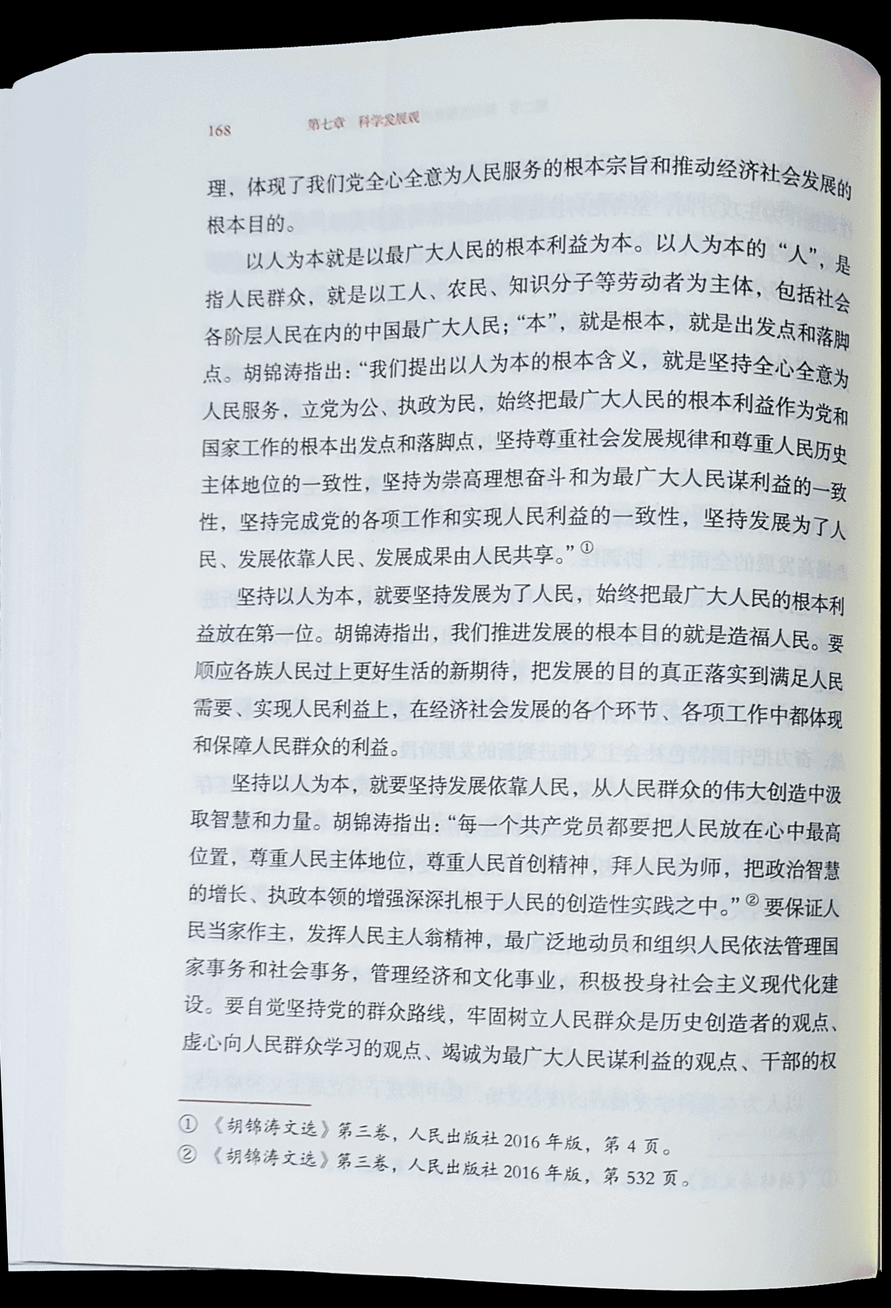
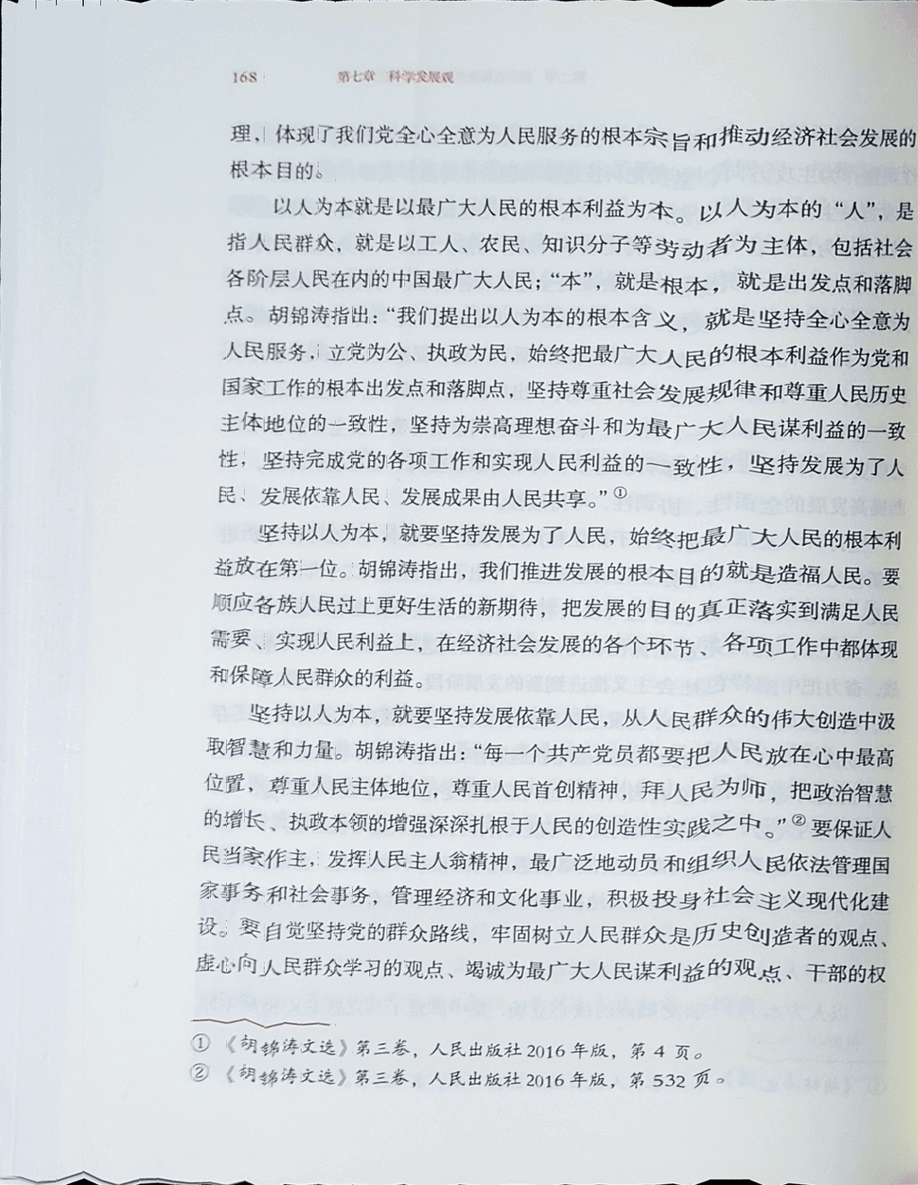
在pic_pre_process.py中添加图片垂直方向自动校正的功能

Changed region(s): [[0.0, 0.0, 1.0, 1.0]]

diff --git a/text_classificate/pic_pre_process.py b/text_classificate/pic_pre_process.py
@@ -415,6 +415,250 @@ def horizontal_warp_image(img, src_points):
     
     return warped
 
+
+# 书页在垂直方向上展开
+def vertical_warp_image(img, num_cells=50, k=1.3):
+    # ========== 图像预处理 ==========
+    # 预处理强化文字对比度
+    gray = cv2.cvtColor(img, cv2.COLOR_BGR2GRAY)
+    blur = cv2.bilateralFilter(gray, 15, 75, 75)  # 保边滤波
+    clahe = cv2.createCLAHE(clipLimit=4.0, tileGridSize=(16,16))
+    enhanced = clahe.apply(blur)
+
+    # 动态参数计算
+    h, w = img.shape[:2]
+    block_size = max(31, int(min(h,w)/15)*2+1)  # 确保足够大的窗口
+    c_value = max(7, int(min(h,w)/100))
+    
+    # 二值化强化边缘
+    thresh = cv2.adaptiveThreshold(enhanced, 255, 
+                                  cv2.ADAPTIVE_THRESH_GAUSSIAN_C,
+                                  cv2.THRESH_BINARY, block_size, c_value)
+
+    # 形态学重建（针对密集文字优化）
+    kernel = cv2.getStructuringElement(cv2.MORPH_ELLIPSE, (7,7))
+    closed = cv2.morphologyEx(thresh, cv2.MORPH_CLOSE, kernel, iterations=3)
+    opened = cv2.morphologyEx(closed, cv2.MORPH_OPEN, kernel, iterations=2)
+
+    # 多层轮廓分析
+    contours, hierarchy = cv2.findContours(opened, cv2.RETR_TREE, cv2.CHAIN_APPROX_SIMPLE)
+
+    # 筛选有效轮廓
+    valid_contours = []
+    for i, cnt in enumerate(contours):
+        # 层级校验（仅最外层父轮廓）
+        if hierarchy[0][i][3] != -1:
+            continue
+        
+        # 几何特征校验
+        area = cv2.contourArea(cnt)
+        perimeter = cv2.arcLength(cnt, True)
+        if area < (h*w*0.5) or perimeter < (h+w)*1.5:
+            continue
+            
+        # 矩形度验证
+        rect = cv2.minAreaRect(cnt)
+        box = cv2.boxPoints(rect)
+        box_area = cv2.contourArea(box)
+        if abs(1 - area/box_area) > 0.3:
+            continue
+            
+        valid_contours.append(cnt)
+
+    # # ==================================================== 可视化调试 ====================================================
+    # debug_img = img.copy()
+    # cv2.drawContours(debug_img, valid_contours, -1, (0, 255, 0), 4)
+    # show_image(debug_img)
+
+    # ========== 处理四边界曲线 ==========
+    def extract_boundary_points(contours, img_height, threshold=0.3):
+        """提取上下边界点"""
+        upper_points = []
+        lower_points = []
+        for cnt in contours:
+            for p in cnt[:,0]:
+                if p[1] < img_height * threshold:
+                    upper_points.append(p)
+                elif p[1] > img_height * (1 - threshold):
+                    lower_points.append(p)
+        return upper_points, lower_points
+
+    def create_spline_curve(points, img_width, img_height):
+        """创建覆盖整个宽度的三次样条曲线（带严格递增校验）"""
+        if not points:
+            return lambda x: np.zeros_like(x)
+        
+        # 按x坐标排序并去重
+        points = sorted(points, key=lambda p: p[0])
+        unique_points = []
+        seen_x = set()
+        for p in reversed(points):  # 保留每个x最后出现的点
+            if p[0] not in seen_x:
+                seen_x.add(p[0])
+                unique_points.append(p)
+        unique_points = sorted(unique_points, key=lambda p: p[0])
+
+        # 提取坐标
+        x = np.array([p[0] for p in unique_points])
+        y = np.array([p[1] for p in unique_points])
+        
+        # 智能添加边界约束
+        if len(x) > 0:
+            if x[0] > 0:
+                x = np.concatenate([[0], x])
+                y = np.concatenate([[y[0]], y])
+            if x[-1] < img_width - 1:
+                x = np.concatenate([x, [img_width - 1]])
+                y = np.concatenate([y, [y[-1]]])
+        
+        # 最终校验
+        if len(x) < 2:
+            return lambda x: np.zeros_like(x)
+        
+        # 确保严格递增
+        assert np.all(np.diff(x) > 0), "x坐标必须严格递增"
+        
+        cubic_spline = CubicSpline(x, y)
+        return lambda x: np.clip(cubic_spline(x), 0, img_height)
+
+    # 提取上下边界点并创建曲线
+    h, w = img.shape[:2]
+    upper_points, lower_points = extract_boundary_points(valid_contours, h)
+
+    # # ==================================================== 可视化调试 ====================================================
+    # debug_img = img.copy()
+    # for p in upper_points:
+    #     cv2.circle(debug_img, tuple(p), 5, (0,0,255), -1)
+    # for p in lower_points:
+    #     cv2.circle(debug_img, tuple(p), 5, (255,0,0), -1)
+    # show_image(debug_img)
+
+    upper_curve = create_spline_curve(upper_points, w, h)
+    lower_curve = create_spline_curve(lower_points, w, h)
+
+    # # ==================================================== 可视化调试 ====================================================
+    # debug_img = img.copy()
+    # # 生成采样点
+    # x_samples = np.linspace(0, w-1, 2000)
+    # y_upper = upper_curve(x_samples)
+    # y_lower = lower_curve(x_samples)
+    # for x, y in zip(x_samples.astype(int), y_upper.astype(int)):
+    #     cv2.circle(debug_img, (x, y), 5, (0,0,255), -1)
+    # for x, y in zip(x_samples.astype(int), y_lower.astype(int)):
+    #     cv2.circle(debug_img, (x, y), 5, (255,0,0), -1)
+    # show_image(debug_img)
+
+    cells_output = []
+    for i in range(num_cells):
+        if i == 0:
+            cell_width = max(10, w // num_cells)  # 左侧单元格最小宽度
+            remainder = w % num_cells
+            x_left = 0
+            x_right = cell_width
+        else:
+            cell_width = w // num_cells
+            remainder = w % num_cells
+            x_left = i * cell_width + (1 if i < remainder else 0)
+            x_right = x_left + cell_width
+        
+        # 防止越界
+        x_left = max(0, x_left)
+        x_right = min(w, x_right)
+        if x_left >= x_right:
+            continue
+        
+        # 新增有效性校验
+        if x_left > w - 10 or x_right < 10:
+            print(f"Skipping edge cell {i}: {x_left}-{x_right}")
+            continue
+        
+        try:
+            # 获取边界曲线值（浮点坐标）
+            y_top_left = upper_curve(x_left)
+            y_top_right = upper_curve(x_right)
+            y_bottom_left = lower_curve(x_left)
+            y_bottom_right = lower_curve(x_right)
+        except:
+            continue  # 跳过无效单元格
+        
+        # 计算目标尺寸
+        h_left = y_bottom_left - y_top_left
+        h_right = y_bottom_right - y_top_right
+
+        target_width = sqrt(((max(h_left, h_right) - min(h_left, h_right)) * k) ** 2 + (x_right - x_left) ** 2)
+        target_height = max(h_left, h_right)
+
+        # print(f"Cell {i}: {x_left}-{x_right}, {y_top_left}-{y_bottom_left} / {y_top_right}-{y_bottom_right}")
+        # print(f"\tTarget size: {target_width} x {target_height}")
+        
+        if target_height <= 1e-9 or target_width <= 1e-9:
+            continue  # 忽略无效变换
+        
+        # 定义源点和目标点（浮点坐标）
+        src = [
+            (x_left, y_top_left),
+            (x_right, y_top_right),
+            (x_right, y_bottom_right),
+            (x_left, y_bottom_left)
+        ]
+
+        dst = [
+            (0.0, 0.0),
+            (target_width, 0.0),
+            (target_width, target_height),
+            (0.0, target_height)
+        ]
+        
+        # 提取原始单元格区域（整数坐标）
+        cell_region = img[0:h, x_left:x_right]
+        # 可视化调试
+        # show_image(cell_region)
+        
+        # 计算变换矩阵
+        src = np.array(src, dtype=np.float32)
+        dst = np.array(dst, dtype=np.float32)
+        matrix = cv2.getPerspectiveTransform(src, dst)
+
+        # 动态选择插值方法
+        if target_width > cell_region.shape[1]:
+            warp_method = cv2.INTER_CUBIC  # 放大时使用三次插值
+        else:
+            warp_method = cv2.INTER_AREA   # 缩小时使用面积插值
+        
+        # 应用透视变换并验证有效性
+        try:
+            # print(f"\nProcessing cell {i}: x_left={x_left}, x_right={x_right}")
+            # print(f"  src:\n{src}, \ndst:\n{dst}")
+            # print(f"  matrix:\n{matrix}")
+            
+            warped = cv2.warpPerspective(cell_region, matrix, (int(target_width), int(target_height)), flags=warp_method, borderMode=cv2.BORDER_WRAP)
+            # warped = cv2.warpPerspective(cell_region, matrix, (int(target_width), int(target_height)), flags=warp_method)
+            # show_image(warped)
+        except cv2.error as e:
+            print(f"\nWarp failed for cell {i}:\n{str(e)}")
+            continue
+        
+
+        if warped.size == 0 or warped.shape[0] <= 0 or warped.shape[1] <= 0:
+            continue  # 跳过无效图像
+        cells_output.append(warped)
+    
+    # 统一拉伸所有单元格到基准高度
+    if not cells_output:
+        return img
+    base_h = cells_output[0].shape[0]
+    for i in range(len(cells_output)):
+        curr_h = cells_output[i].shape[0]
+        if curr_h != base_h:
+            # 保持宽度不变，仅调整高度
+            cells_output[i] = cv2.resize(cells_output[i], 
+                                    (cells_output[i].shape[1], base_h),
+                                    interpolation=cv2.INTER_AREA)
+    
+    # 拼接处理后的单元格
+    final_image = cv2.hconcat(cells_output) if cells_output else img
+    return final_image
+
 # 书页矫正主函数
 def book_page_rectifier(img_path):
     img = cv2.imread(img_path)
@@ -437,9 +681,12 @@ def book_page_rectifier(img_path):
 
     horizontal_img =  horizontal_warp_image(img, corners)
 
-    # show_image(horizontal_img)
+    vertical_img = vertical_warp_image(horizontal_img)
 
-    return horizontal_img
+    # show_image(horizontal_img)
+    # show_image(vertical_img)
+
+    return vertical_img
 
 
 if __name__ == "__main__":
@@ -459,3 +706,11 @@ if __name__ == "__main__":
         corrected_right = book_page_rectifier(f"./text_classificate/content/images/{i}_right_page.png")
         cv2.imwrite(f"./text_classificate/content/images/{i}_corrected_left.png", corrected_left)
         cv2.imwrite(f"./text_classificate/content/images/{i}_corrected_right.png", corrected_right)
+
+
+
+        # # 识别文字
+        # left_text = get_pic_text(f"./text_classificate/content/images/{i}_corrected_left.png")
+        # right_text = get_pic_text(f"./text_classificate/content/images/{i}_corrected_right.png")
+        # print(f"左页文字识别结果：{left_text}")
+        # print(f"右页文字识别结果：{right_text}")
